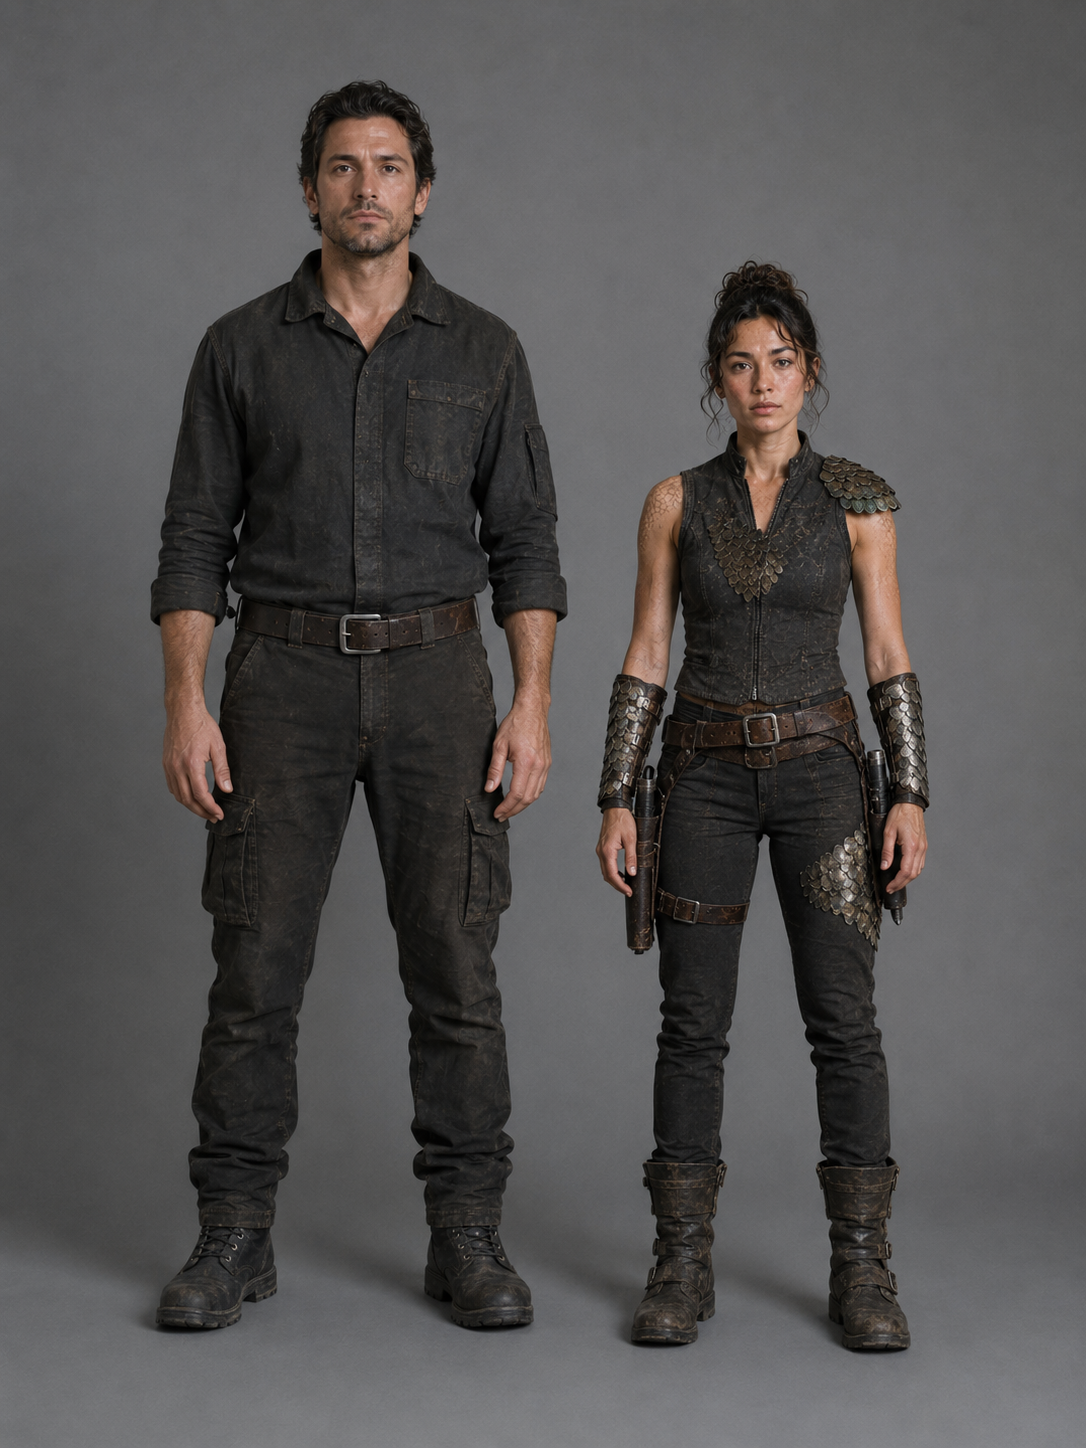
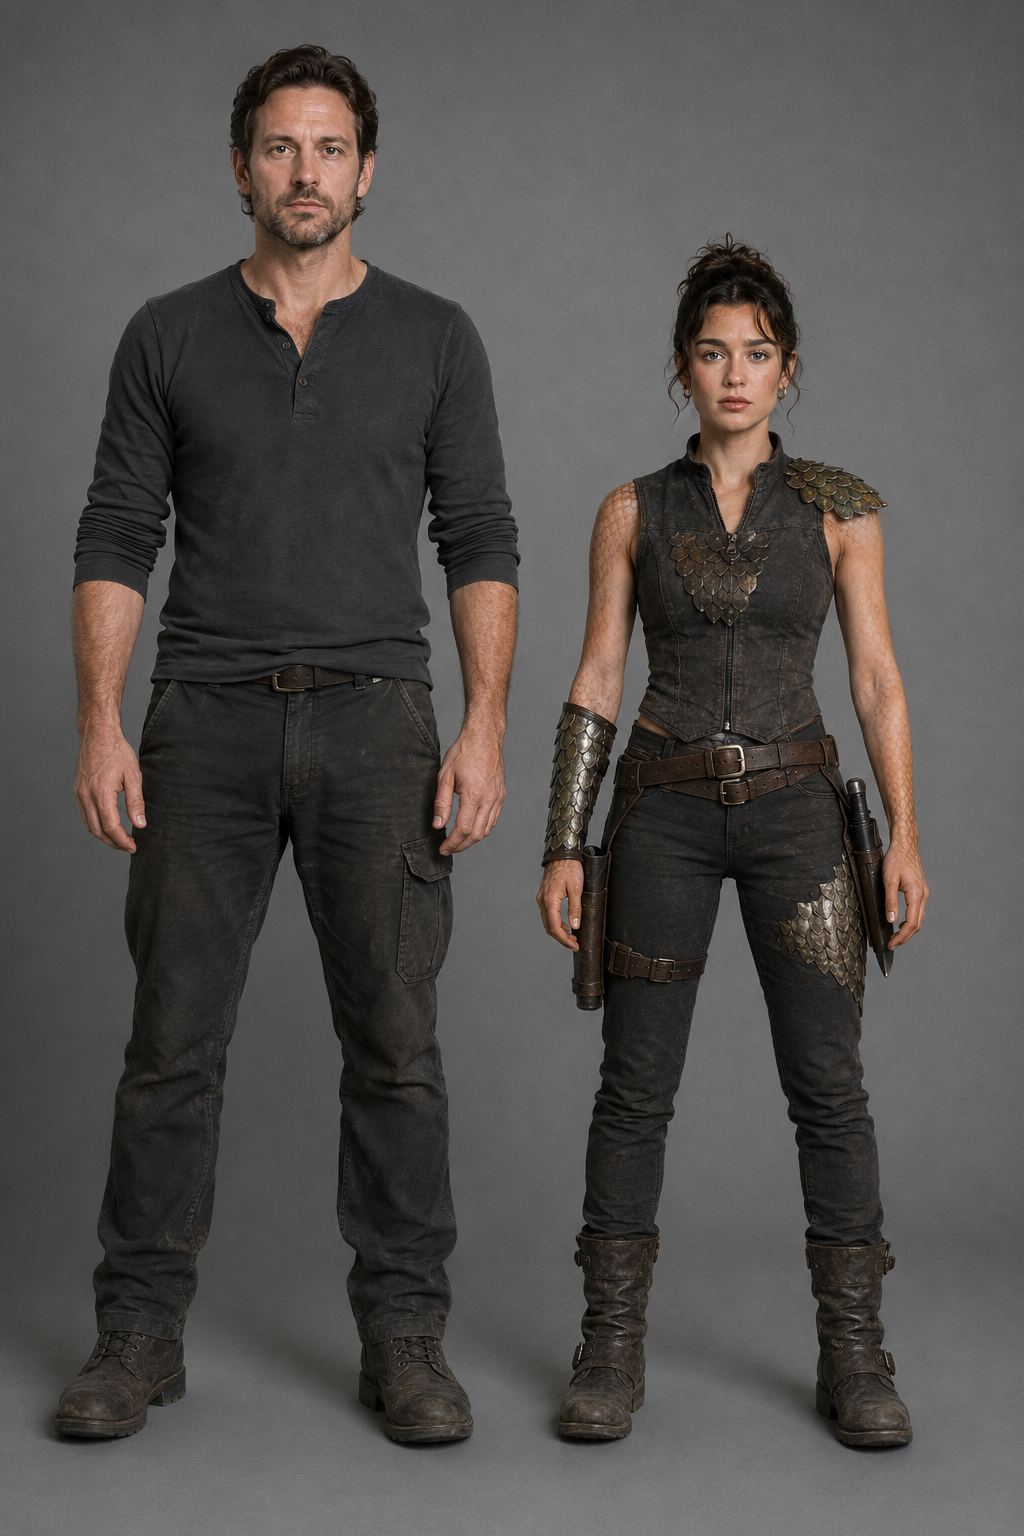
design: handedness and placement convention; Shada weapon sides fixed

Changed region(s): [[0.0, 0.0311, 0.9062, 0.9634]]

diff --git a/09-prompt-library/Handedness-And-Placement.md b/09-prompt-library/Handedness-And-Placement.md
@@ -1,0 +1,123 @@
+---
+title: "Handedness and Placement"
+asset_id: "PROMPT-HANDEDNESS"
+version: "1.0"
+status: "canonical"
+---
+
+# Handedness and Placement
+
+**Every asymmetric element on a costume must be assigned a side, and that side
+must never move.** This applies to all characters.
+
+---
+
+## Why it matters more than it sounds
+
+**Continuity.** An image generator has no memory of which hip you used last time.
+Unspecified, a holster lands on a different side in every frame, and a turnaround
+becomes useless.
+
+**Stunt and action design.** An actor draws with one hand. If the holster moves
+between the costume boards and the shot list, the fight choreography is built on
+a lie and somebody finds out on the day.
+
+**Performance.** Where a weapon sits changes how a person stands, what they can
+reach without turning, and which shoulder they lead with.
+
+**Build.** A costume maker sets a holster once. They need to be told which side
+before they sew.
+
+---
+
+## The convention
+
+**Always state sides from the wearer's own left and right — never the viewer's.**
+
+Add the note explicitly to every prompt:
+
+> In a front view her right side appears on the viewer's left; in a back view it
+> appears on the viewer's right.
+
+Without that, a generator flips the whole rig between the front and back plates
+of the same turnaround, and both look correct in isolation.
+
+---
+
+## Establish handedness first
+
+**It is the decision every other placement follows from.** Settle it before any
+weapon or pouch is positioned.
+
+Once set, the defaults fall out:
+
+| Item | Right-handed default |
+|---|---|
+| Primary weapon | Right hip or right thigh, grip up and slightly forward |
+| Blade | Left hip, grip up, for a cross-draw with the right hand |
+| Secondary or backup | Off side, or small of the back |
+| Tools and pouches | Off side, so they never foul the draw |
+| Bandolier | Over the **left** shoulder down to the **right** hip, so the strap does not sit under the drawing arm |
+
+Defaults are a starting point, not a rule. Deviating from them is fine and often
+characterful — but it should be a decision, and it should be written down.
+
+---
+
+## What must be specified
+
+For every character, in `Character.md` and in `outfits.yaml` under `must_show`:
+
+- **Handedness**
+- **Primary weapon** — which side, hip or thigh, drop-leg or belt, which way the
+  grip points
+- **Blade** — which side, angle, grip up or down, draw direction
+- **Any second weapon**
+- **Bandoliers and slings** — *"over the left shoulder to the right hip"*. State
+  both ends; one is not enough
+- **Pouches, tools, canteens** — which side
+- **Armour** — every plate or patch, by side
+- **Anything worn on one wrist, one shoulder or one leg**
+
+---
+
+## The test
+
+> Could a costume maker dress a mannequin from this document without asking a
+> single question?
+
+If not, something has been left to chance, and a generator will decide it
+differently every time.
+
+---
+
+## Recording it
+
+Put the placement in three places, because each is read by different people:
+
+1. **`Character.md`** — the reasoning and the full spec. The build document.
+2. **`Character-Lock.md`** — the short non-negotiable list.
+3. **`outfits.yaml` → `must_show`** — so it is hoisted to the top of every
+   generated prompt and repeated at the bottom.
+
+The third is what actually reaches the image generator. The first two are what
+reach the humans.
+
+---
+
+## Worked example — Shada
+
+Right-handed.
+
+| Item | Side | Detail |
+|---|---|---|
+| Compact blaster | **Her right thigh** | Drop-leg holster with a leg strap, grip up, right-hand draw |
+| Combat knife | **Her left hip** | On the belt, grip up, cross-draw |
+| Scale gauntlet | **Her right forearm** | Left forearm completely bare |
+| Scale shoulder cap | **Her left shoulder** | Opposite side to the gauntlet |
+| Scale sternum patch | **Centre** | Stitched flat |
+| Scale thigh patch | **Her left outer thigh** | Same side as the shoulder cap |
+
+Her right side carries the gauntlet and the blaster; her left carries the
+shoulder cap, the knife and the thigh patch. **Nothing is mirrored, and no two
+elements of the same kind share a side.**

diff --git a/03-characters/shada/Character.md b/03-characters/shada/Character.md
@@ -175,9 +175,18 @@ a place in a world where nothing is worn for looks.
 
 ### Her weapons live on this costume
 
-**A compact blaster in a worn holster** at the hip or thigh — in the holster, not
-an empty one — and **a well-used combat knife in a secure sheath**, positioned
-where she can reach it.
+**She is right-handed.** Sides below are given from her own left and right.
+
+| Item | Side | Detail |
+|---|---|---|
+| **Compact blaster** | Her **right thigh** | Drop-leg holster, belt loop and thigh strap, grip up and angled slightly forward. Right-hand draw |
+| **Combat knife** | Her **left hip** | On the belt, grip up. Cross-draw with the right hand |
+
+Her right side carries the gauntlet and the blaster; her left carries the
+shoulder cap, the knife and the thigh patch. **Nothing is mirrored.**
+
+See [`09-prompt-library/Handedness-And-Placement.md`](../../09-prompt-library/Handedness-And-Placement.md)
+— the project convention this follows.
 
 Both must appear in every turnaround view. She is an assassin, a thief and a
 tracker; a costume record without her weapons is incomplete, and the costume

diff --git a/03-characters/shada/Character-Lock.md b/03-characters/shada/Character-Lock.md
@@ -58,8 +58,11 @@ recorded revision.
   - **Fastenings:** buckles, hooks, lacing, toggles, straps. Any zip must be heavy
     industrial hardware — large chunky exposed metal teeth, weathered, oversized
     metal pull. **Never a fine modern coil zip.** If in doubt, use hooks or lacing.
-  - **Weapons are worn, not implied.** Compact blaster in its holster, combat knife
-    in its sheath, both visible in every costume view.
+  - **Weapons are worn, not implied, and their sides are fixed. Right-handed.**
+    - **Blaster — her right thigh**, drop-leg holster, belt loop and thigh strap,
+      grip up and angled forward. Right-hand draw.
+    - **Knife — her left hip**, on the belt, grip up. Cross-draw.
+    - Both visible in every costume view. Nothing is mirrored.
   - **Moves like heavy cloth, not plate.** That is why she wears it.
   - **It reads as serpentine: she wears her own ancestry as armour.**
 - Functional exposed skin for mobility, heat and sensory function.

diff --git a/01-production-design/Production-Design-Bible-v1.0.md b/01-production-design/Production-Design-Bible-v1.0.md
@@ -120,6 +120,21 @@ Visible Earth historical fashion should be avoided.
 - Pressure garments
 - Industrial gloves
 
+### Handedness and placement
+
+**Every asymmetric element on a costume must be assigned a side, and that side
+must never move.** Establish handedness before positioning anything, then fix the
+primary weapon, the blade, any bandolier, the pouches and every piece of armour.
+
+**Always state sides from the wearer's own left and right, never the viewer's.**
+A front view and a back view will otherwise mirror the whole rig, and both will
+look correct in isolation.
+
+This is not pedantry. An actor draws with one hand, a costume maker sets a
+holster once, and a generator has no memory of which hip it used last time.
+
+See [`09-prompt-library/Handedness-And-Placement.md`](../09-prompt-library/Handedness-And-Placement.md).
+
 ### Fastenings
 
 Buckles, hooks, lacing, toggles, straps, industrial catches.
